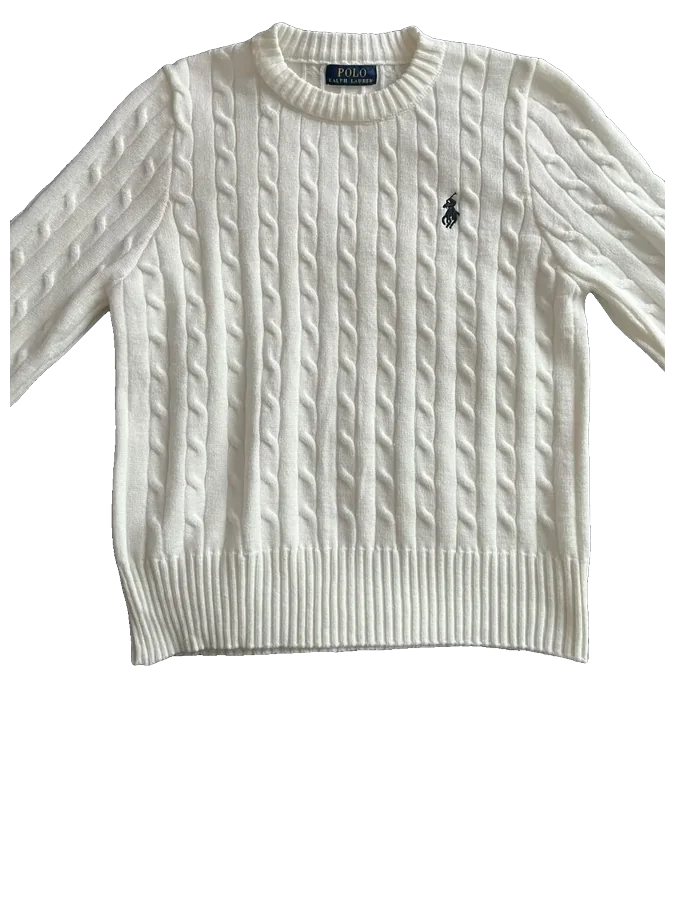
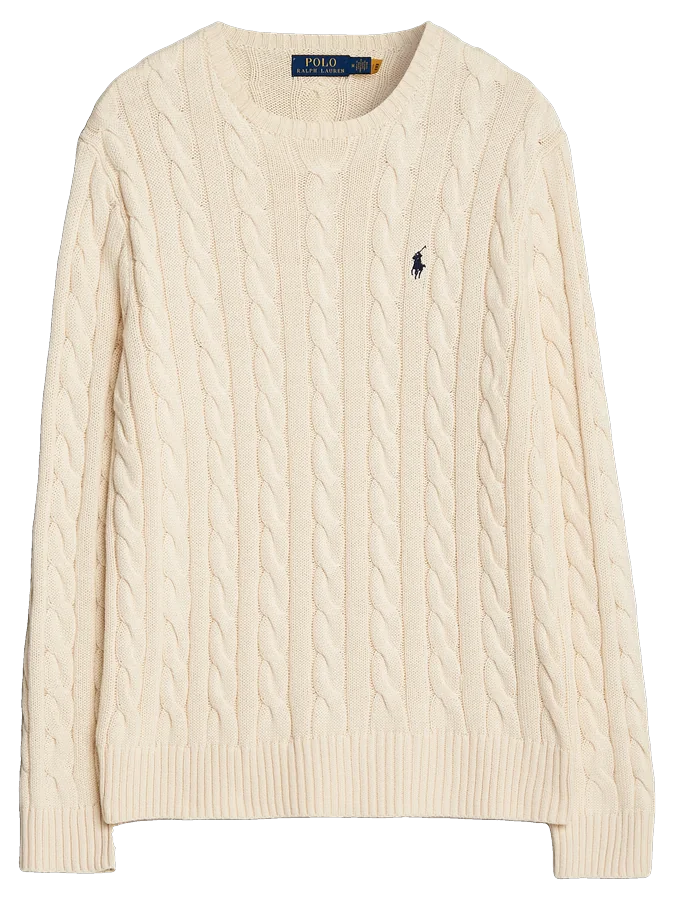
Rebrand to ACE DEPT. and hang the rack like a real rail.
Swap in full-sleeve photos of the cream Polo cable and the Stüssy
Stock knit. The headline is now “Not for everyone.” Pieces overlap
tightly so one sleeve shows; hover slides the rest aside so the
hovered garment comes out fully.

diff --git a/index.html b/index.html
@@ -4,14 +4,19 @@
 <meta charset="utf-8">
 <meta name="viewport" content="width=device-width, initial-scale=1, viewport-fit=cover">
 <meta name="theme-color" content="#F9F9F9">
-<title>TRACKSIDE — Off the rack, never ordinary.</title>
-<meta name="description" content="Trackside: a rack of selected knits and hoodies. Demo store, no real checkout.">
+<title>ACE DEPT. — Not for everyone.</title>
+<meta name="description" content="ACE DEPT. — a rack of selected knits and hoodies. Demo store, no real checkout.">
+<link rel="icon" href="images/favicon.ico" sizes="any">
+<link rel="icon" type="image/png" sizes="32x32" href="images/favicon-32.png">
+<link rel="apple-touch-icon" href="images/apple-touch-icon.png">
+<link rel="preload" as="image" href="images/logo-ace-dept.webp">
 <link rel="preload" as="image" href="images/01-burberry-check-hood-zip.webp">
 <style>
   :root{
     --bg:#F9F9F9; --ink:#0B0B0B; --muted:#7a7a7a; --line:#e6e6e6;
-    --w: clamp(130px, 14.6vw, 215px);          /* hoodie width on the rack */
-    --overlap: calc(var(--w) * -0.36);
+    --w: clamp(140px, 15vw, 220px);            /* garment width on the rack */
+    --peek: calc(var(--w) * 0.30);              /* visible strip at rest (~one sleeve) */
+    --overlap: calc(var(--peek) - var(--w));
     --ease: cubic-bezier(.65,0,.2,1);
     --font: "Inter", -apple-system, BlinkMacSystemFont, "SF Pro Text", "Helvetica Neue", Helvetica, Arial, sans-serif;
   }
@@ -23,9 +28,9 @@
 
   /* ---------- header ---------- */
   header{position:relative;display:flex;align-items:center;justify-content:center;
-    padding:calc(22px + env(safe-area-inset-top)) 24px 18px}
-  .brand{font-weight:800;font-size:13px;letter-spacing:.42em;text-transform:uppercase;padding-left:.42em;
-    background:none;border:0;cursor:pointer}
+    padding:calc(18px + env(safe-area-inset-top)) 24px 14px}
+  .brand{background:none;border:0;cursor:pointer;padding:0;line-height:0}
+  .brand img{height:46px;width:auto;display:block}
   .bag{position:absolute;right:20px;top:calc(16px + env(safe-area-inset-top));display:flex;align-items:center;gap:8px;
     border:1px solid var(--line);background:#fff;border-radius:999px;padding:7px 12px;font-size:12px;font-weight:600;letter-spacing:.06em;text-transform:uppercase}
   .bag b{display:inline-grid;place-items:center;min-width:20px;height:20px;border-radius:999px;background:var(--ink);color:#fff;font-size:11px;padding:0 6px}
@@ -39,7 +44,7 @@
   /* rack view */
   .rack-view{display:flex;flex-direction:column;justify-content:center;padding:4vh 0 8vh}
   .headline{font-size:clamp(40px,6.4vw,92px);line-height:.98;letter-spacing:-.045em;font-weight:600;
-    padding:0 clamp(20px,5vw,72px);max-width:12ch;margin-bottom:clamp(28px,6vh,64px)}
+    padding:0 clamp(20px,5vw,72px);max-width:9ch;margin-bottom:clamp(28px,6vh,64px)}
   .headline span{color:var(--muted)}
   .rack-scroll{overflow-x:auto;overflow-y:visible;-webkit-overflow-scrolling:touch;scrollbar-width:none;
     padding:28px clamp(20px,5vw,72px) 46px;scroll-snap-type:x proximity}
@@ -51,17 +56,18 @@
   .item{position:relative;flex:0 0 var(--w);width:var(--w);aspect-ratio:3/4;margin-left:var(--overlap);
     background:none;border:0;padding:0;cursor:pointer;scroll-snap-align:center;
     transition:transform .45s var(--ease)}
-  .item:first-child{margin-left:0}
+  .rail + .item{margin-left:0}
   .item img{width:100%;height:100%;object-fit:contain;filter:drop-shadow(0 16px 14px rgba(0,0,0,.16)) drop-shadow(0 2px 3px rgba(0,0,0,.10));
     transform-origin:50% 2%;transition:transform .45s var(--ease)}
   .item .tag{position:absolute;left:50%;bottom:-30px;transform:translateX(-50%);white-space:nowrap;font-size:11px;
     letter-spacing:.08em;text-transform:uppercase;color:var(--muted);opacity:0;transition:opacity .3s}
+  /* Tight pack at rest (one sleeve showing). Hover slides later pieces aside so the
+     hovered garment comes fully out of the rail, both sleeves visible. */
   @media (hover:hover){
-    .item:hover{z-index:5}
-    .item:hover img{transform:translateY(-10px) rotate(-1.2deg) scale(1.03)}
-    .item:hover .tag{opacity:1}
-    .item:hover ~ .item{transform:translateX(18px)}
-    .item:has(~ .item:hover){transform:translateX(-18px)}
+    .item:hover, .item:focus-visible{z-index:40}
+    .item:hover img, .item:focus-visible img{transform:translateY(-14px) rotate(-1.2deg) scale(1.04)}
+    .item:hover .tag, .item:focus-visible .tag{opacity:1}
+    .item:hover ~ .item, .item:focus-visible ~ .item{transform:translateX(calc(var(--w) - var(--peek) - 6px))}
   }
   .item:focus-visible{outline:2px solid var(--ink);outline-offset:4px;border-radius:8px}
 
@@ -108,8 +114,9 @@
 
   /* ---------- mobile ---------- */
   @media (max-width:760px){
-    :root{--w:150px;--overlap:-50px}
-    header{padding-bottom:6px}
+    :root{--w:160px;--peek:50px;--overlap:calc(var(--peek) - var(--w))}
+    header{padding-bottom:8px}
+    .brand img{height:38px}
     .bag{right:14px;padding:6px 10px}
     .bag .txt{display:none}
     .stage{min-height:auto}
@@ -127,13 +134,13 @@
 </head>
 <body>
 <header>
-  <button class="brand" id="brand" aria-label="Trackside home">Trackside</button>
+  <button class="brand" id="brand" aria-label="ACE DEPT. home"><img src="images/logo-ace-dept.webp" alt="ACE DEPT." width="150" height="46"></button>
   <button class="bag" id="bag" aria-label="Bag"><span class="txt">Bag</span><b id="bagCount">0</b></button>
 </header>
 
 <main class="stage" id="stage">
   <section class="view rack-view" id="rackView" aria-label="The rack">
-    <h1 class="headline" id="headline">Off the rack, <span>never ordinary.</span></h1>
+    <h1 class="headline" id="headline">Not for <span>everyone.</span></h1>
     <div class="rack-scroll" id="rackScroll">
       <div class="rack" id="rack" role="list"><div class="rail" id="rail" aria-hidden="true"></div></div>
     </div>
@@ -160,16 +167,16 @@
   </section>
 </main>
 
-<footer id="storeFoot">Trackside · demo store, no real checkout</footer>
+<footer id="storeFoot">ACE DEPT. · demo store, no real checkout</footer>
 <div class="toast" id="toast" role="status" aria-live="polite"></div>
 
 <script>
 (() => {
   // Change STORE.name / headline / tagline in one place to rename the shop.
   const STORE = {
-    name: "Trackside",
-    headline: ["Off the rack,", "never ordinary."],
-    tagline: "Off the rack, never ordinary.",
+    name: "ACE DEPT.",
+    headline: ["Not for", "everyone."],
+    tagline: "Not for everyone.",
   };
   const PRODUCTS = [
     { id:"burberry-check", name:"Burberry Check Hood Zip", price:1500,
@@ -206,15 +213,14 @@
       desc:"Black zip hoodie with a white pony and tonal drawcords.",
       colors:[{n:"Black",hex:"#111111",img:"11-polo-black-zip-hoodie"}] },
     { id:"stussy-stock", name:"Stüssy Stock Knit", price:1500,
-      desc:"Black crewneck with the oversized Stock logo in white. Still has the hang tag.",
+      desc:"Black crewneck with the oversized Stock logo knit in white across the chest and sleeves.",
       colors:[{n:"Black",hex:"#111111",img:"12-stussy-stock-knit"}] },
   ];
   const src = k => `images/${k}.webp`;
   const fmt = n => `$${n.toLocaleString("en-US")} MXN`;
   const $ = id => document.getElementById(id);
   const rack = $("rack"), hero = $("hero"), panel = $("panel"), headline = $("headline");
-  const storeTitle = () => `${STORE.name.toUpperCase()} — ${STORE.tagline}`;
-  $("brand").textContent = STORE.name;
+  const storeTitle = () => `${STORE.name} — ${STORE.tagline}`;
   $("brand").setAttribute("aria-label", `${STORE.name} home`);
   headline.innerHTML = `${STORE.headline[0]} <span>${STORE.headline[1]}</span>`;
   $("storeFoot").textContent = `${STORE.name} · demo store, no real checkout`;
@@ -232,6 +238,7 @@
     b.className = "item"; b.type = "button"; b.setAttribute("role","listitem");
     b.setAttribute("aria-label", `${p.name}, ${fmt(p.price)}`);
     b.innerHTML = `<img src="${src(p.colors[0].img)}" alt="${p.name}" width="450" height="600" draggable="false" ${i>3?'loading="lazy"':''}><span class="tag">${p.name}</span>`;
+    b.style.zIndex = String(i + 1);
     b.addEventListener("click", e => { e.stopPropagation(); open(i); });
     rack.appendChild(b);
   });
@@ -306,7 +313,7 @@
 
     heroAnim.onfinish = () => { busy = false; state = "detail"; };
     if (location.hash !== "#" + p.id) history.pushState({p:p.id}, "", "#" + p.id);
-    document.title = `${p.name} — ${STORE.name.toUpperCase()}`;
+    document.title = `${p.name} — ${STORE.name}`;
   }
 
   function close(fromPop){

diff --git a/README.md b/README.md
@@ -1,7 +1,7 @@
-# TRACKSIDE — rack store
+# ACE DEPT.
 
 Single-file storefront (`index.html` + `images/`). Vanilla HTML/CSS/JS, FLIP shared-element transition via the Web Animations API.
 
-To rename the shop, change the `STORE` constant at the top of the script in `index.html`.
+To rename the shop, change the `STORE` constant at the top of the script in `index.html` (and the logo in the header if you swap the mark).
 
 Checkout is a demo only (bag + toast, no payments).
